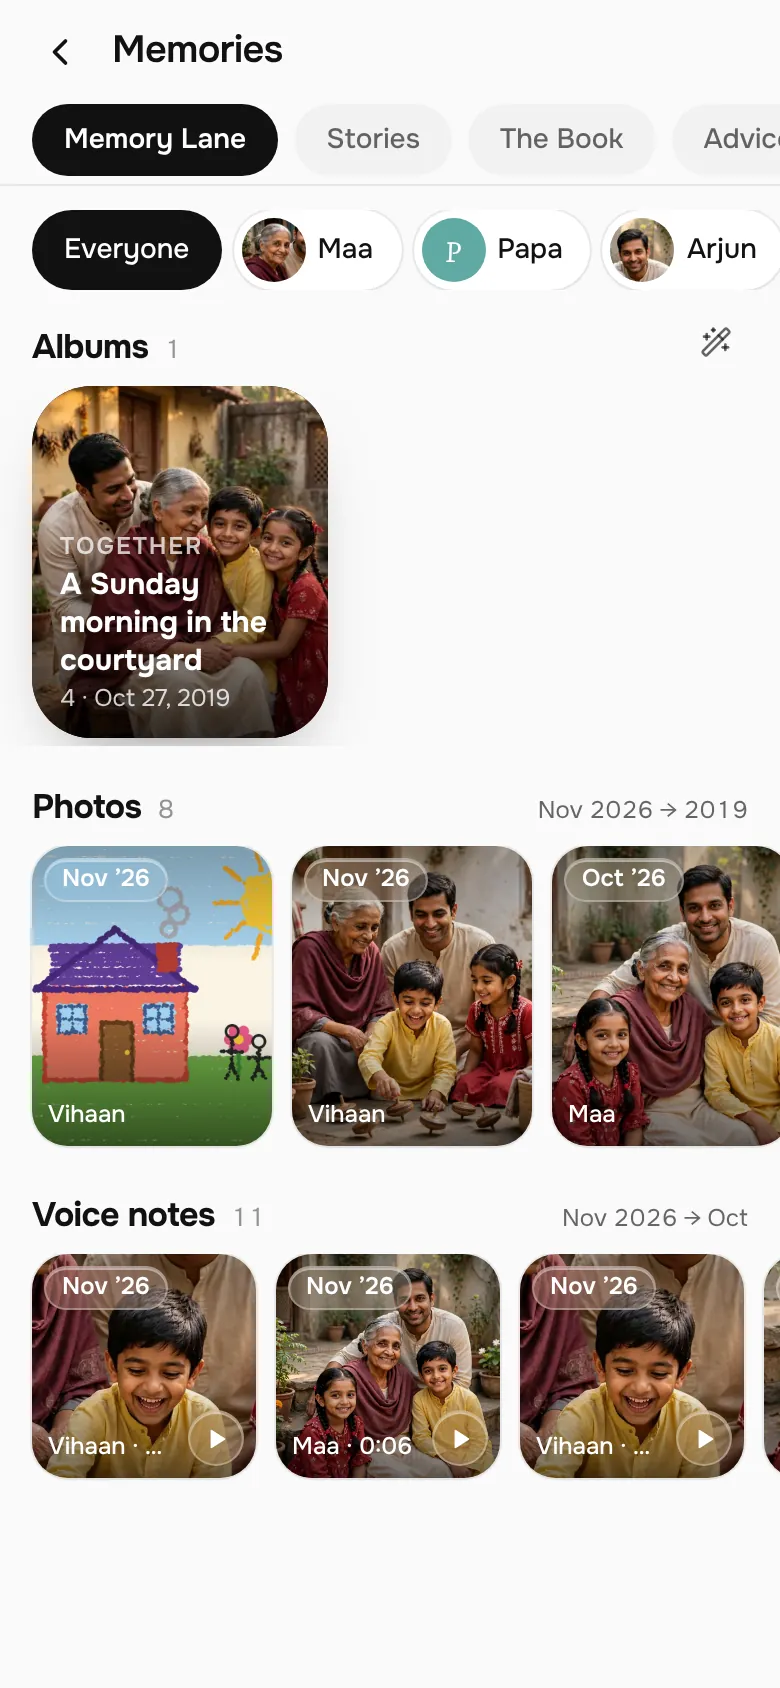
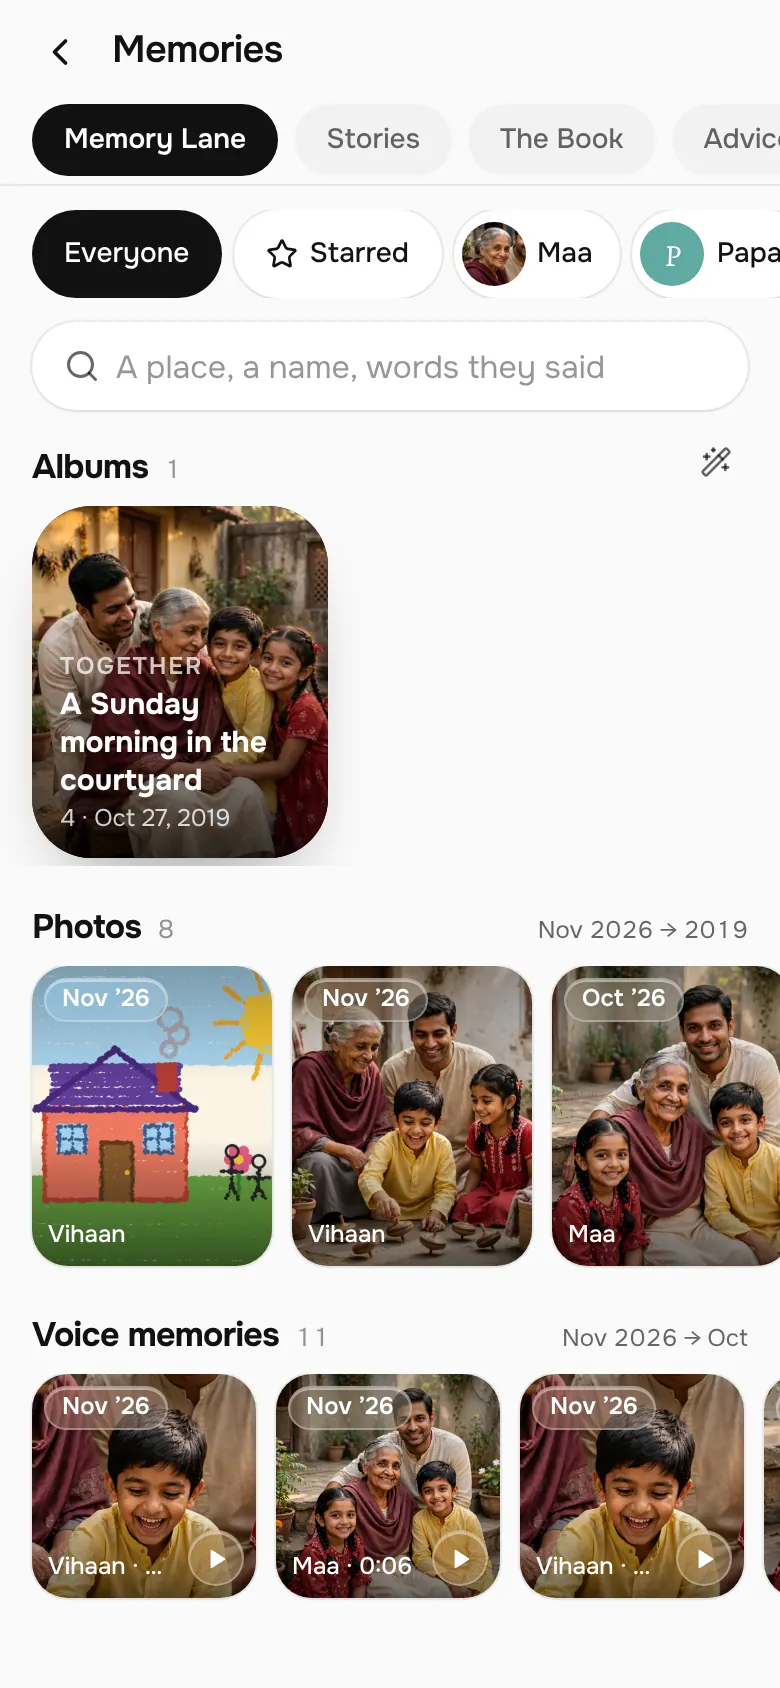
Home page pictures match the voice-first app (#74)
* Home shots: a voice sheet shot with a fake microphone

* Re-shoot the home page pictures from today's app

* Home page: the voice feature shows the voice sheet; pictures get descriptive alt text

* UI inventory from CI

diff --git a/components/home-site.tsx b/components/home-site.tsx
@@ -19,11 +19,11 @@ const NOT_CHAT: { chat: string; nearer: string }[] = [
   { chat: "\"Are you okay?\" needs a reply.", nearer: "A lamp says \"thinking of you\" to one person. Nothing to answer." },
 ];
 
-const FEATURES: { img: string; title: string; line: string }[] = [
-  { img: "/home/memories.webp", title: "Say it once, in any language", line: "Press Voice and say it, in any language. Nearer writes it down, translates it for each of them and keeps her voice, with her recipes and stories. Photos are there too, when words aren't enough." },
-  { img: "/home/chorus.webp", title: "Everyone wishes, together", line: "A week before a birthday or a festival, everyone records a wish by voice. On the day, the Chorus plays them one after another." },
-  { img: "/home/window.webp", title: "A window into their day", line: "Their sky and the time there, the lamp you keep lit for each other, and what they chose to share today." },
-  { img: "/home/together.webp", title: "A little time together", line: "Open your door for chai, dinner or a story. They join when they can, by voice or video, and only when they tap." },
+const FEATURES: { img: string; alt: string; pos: string; title: string; line: string }[] = [
+  { img: "/home/voice.webp", alt: "The voice sheet: a short voice memory for Maa, with the words Nearer wrote down beneath it and a Send button", pos: "object-bottom", title: "Say it once, in any language", line: "Press Voice and say it, in any language. Nearer writes it down, translates it for each of them and keeps her voice, with her recipes and stories. Photos are there too, when words aren't enough." },
+  { img: "/home/chorus.webp", alt: "The Chorus: a birthday with a photo and four voice wishes from the family, each with its words and a play button", pos: "object-top", title: "Everyone wishes, together", line: "A week before a birthday or a festival, everyone records a wish by voice. On the day, the Chorus plays them one after another." },
+  { img: "/home/window.webp", alt: "The window into Maa and Papa's home at night, with the lamp lit and what each of them is doing", pos: "object-top", title: "A window into their day", line: "Their sky and the time there, the lamp you keep lit for each other, and what they chose to share today." },
+  { img: "/home/together.webp", alt: "The Living Room: Maa's door is open for chai, with a Join button, and doors you can open for dinner, a story or a quiz", pos: "object-top", title: "A little time together", line: "Open your door for chai, dinner or a story. They join when they can, by voice or video, and only when they tap." },
 ];
 
 function useQr(path: string): string | null {
@@ -167,7 +167,7 @@ export function HomeSite({ onDemo, signedIn = false, onEnter }: { onDemo: () => 
             <article key={f.title}>
               <div className="overflow-hidden rounded-[26px] bg-paper ring-1 ring-[var(--line)]">
                 {/* eslint-disable-next-line @next/next/no-img-element */}
-                <img src={f.img} alt="" className="block aspect-[390/560] w-full object-cover object-top" loading="lazy" />
+                <img src={f.img} alt={f.alt} className={`block aspect-[390/560] w-full object-cover ${f.pos}`} loading="lazy" />
               </div>
               <h2 className="m-0 mt-4 text-title font-semibold">{f.title}</h2>
               <p className="m-0 mt-1.5 text-body leading-relaxed text-ink-soft">{f.line}</p>

diff --git a/scripts/home-shots.py b/scripts/home-shots.py
@@ -1,5 +1,5 @@
 #!/usr/bin/env python3
-"""The home page's four phone screenshots, from the real app.
+"""The home page's five phone screenshots, from the real app.
 
 Starts a mock build (MOCK=true) with the server clock frozen at --now
 (AANGAN_FIXED_NOW, lib/fixed-clock.ts; the browser gets the same instant, as
@@ -8,6 +8,8 @@ scripts/walk.py does, and captures 390x844 at DPR 2:
 
   public/home/window.webp    the first screen: their sky, the lamp, what they shared,
                              and Maa's door open for chai (she opens it first)
+  public/home/voice.webp     the voice sheet after a short recording: who it is for, the player, and the
+                             words Nearer wrote down (a fake microphone; the mock transcript)
   public/home/together.webp  Living Room: Time together
   public/home/chorus.webp    Living Room: Occasions and the chorus
   public/home/memories.webp  Memories: Memory Lane
@@ -35,6 +37,7 @@ MAX_BYTES = 120 * 1024
 # (file, path, door open?, a selector that says the screen is ready)
 SHOTS = [
     ("window", "/", False, "[data-ui=together]"),
+    ("voice", "/", False, "[data-ui=together]"),
     ("together", "/gather/play", True, "main"),
     ("chorus", "/rituals", True, "main"),
     ("memories", "/lane", True, "main"),
@@ -79,6 +82,24 @@ def save_webp(png: bytes, out: str) -> int:
     return buf.tell()
 
 
+def voice_sheet(page) -> None:
+    """Open Voice, choose Maa, record four seconds, stop: the sheet shows the words written down."""
+    for attempt in range(4):  # a click before hydration does nothing
+        page.get_by_role("button", name="Voice memory").first.click(timeout=10_000)
+        try:
+            page.locator("[role=dialog]").first.wait_for(timeout=3_000)
+            break
+        except Exception:
+            if attempt == 3:
+                raise
+    page.locator("[data-ui=people-picker]").get_by_text("Maa", exact=True).first.click()
+    page.get_by_role("button", name="Start recording").click(timeout=10_000)
+    page.wait_for_timeout(4500)
+    page.get_by_role("button", name="Stop recording").click()
+    page.get_by_role("button", name="Record again").wait_for(timeout=20_000)
+    page.wait_for_timeout(800)
+
+
 def main() -> int:
     ap = argparse.ArgumentParser()
     ap.add_argument("--port", type=int, default=4610)
@@ -97,7 +118,8 @@ def main() -> int:
         ms = int(datetime.fromisoformat(args.now.replace("Z", "+00:00")).timestamp() * 1000)
         os.makedirs(args.out, exist_ok=True)
         with sync_playwright() as p:
-            browser = p.chromium.launch()
+            # A fake microphone (a steady tone) for the voice sheet; no real audio or person is recorded.
+            browser = p.chromium.launch(args=["--use-fake-ui-for-media-stream", "--use-fake-device-for-media-stream"])
             # Maa opens her door for Arjun (chai, an hour), so the window shows a real invitation.
             maa = browser.new_context(base_url=base)
             res = maa.request.post("/api/session", data=json.dumps({"inviteCode": "NEARER-DEMO", "memberId": "dadi"}), headers={"content-type": "application/json"})
@@ -110,8 +132,9 @@ def main() -> int:
                 raise SystemExit(f"home-shots: opening Maa's door failed {opened}")
             maa.close()
             for name, path, door_open, ready in SHOTS:
-                ctx = browser.new_context(viewport={"width": 390, "height": 844}, device_scale_factor=2, base_url=base, timezone_id=TZ, locale="en-US", color_scheme="light", reduced_motion="reduce")
+                ctx = browser.new_context(viewport={"width": 390, "height": 844}, device_scale_factor=2, base_url=base, timezone_id=TZ, locale="en-US", color_scheme="light", reduced_motion="reduce", permissions=["microphone"])
                 ctx.add_init_script(CLOCK_JS % ms)
+                ctx.add_init_script("try { localStorage.setItem('aangan:voice-consent', '1') } catch (e) {}")
                 door = "open" if door_open else "closed"
                 ctx.add_init_script(f"try {{ sessionStorage.setItem('aangan:door', '{door}'); sessionStorage.setItem('aangan:entered', '1') }} catch (e) {{}}")
                 res = ctx.request.post("/api/session", data=json.dumps({"inviteCode": "NEARER-DEMO", "memberId": "arjun"}), headers={"content-type": "application/json"})
@@ -121,6 +144,8 @@ def main() -> int:
                 page.goto(path, wait_until="load")
                 page.locator(ready).first.wait_for(timeout=20_000)
                 page.wait_for_timeout(2500)  # late content and fonts
+                if name == "voice":
+                    voice_sheet(page)
                 size = save_webp(page.screenshot(), os.path.join(args.out, f"{name}.webp"))
                 print(f"{name:7} {path:10} {size // 1024} KB")
                 ctx.close()
